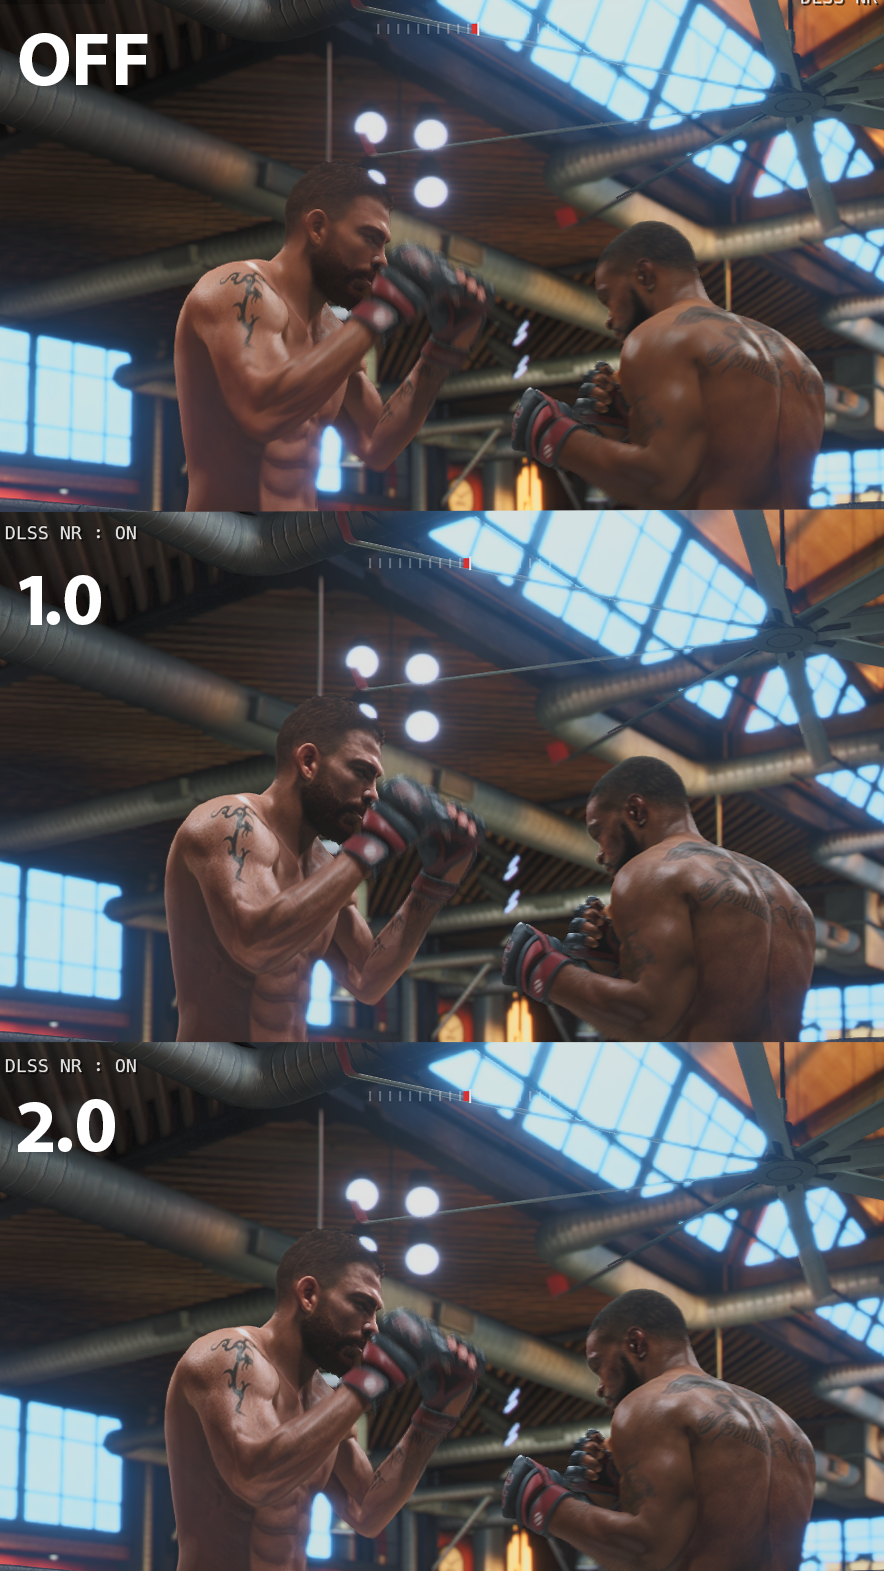
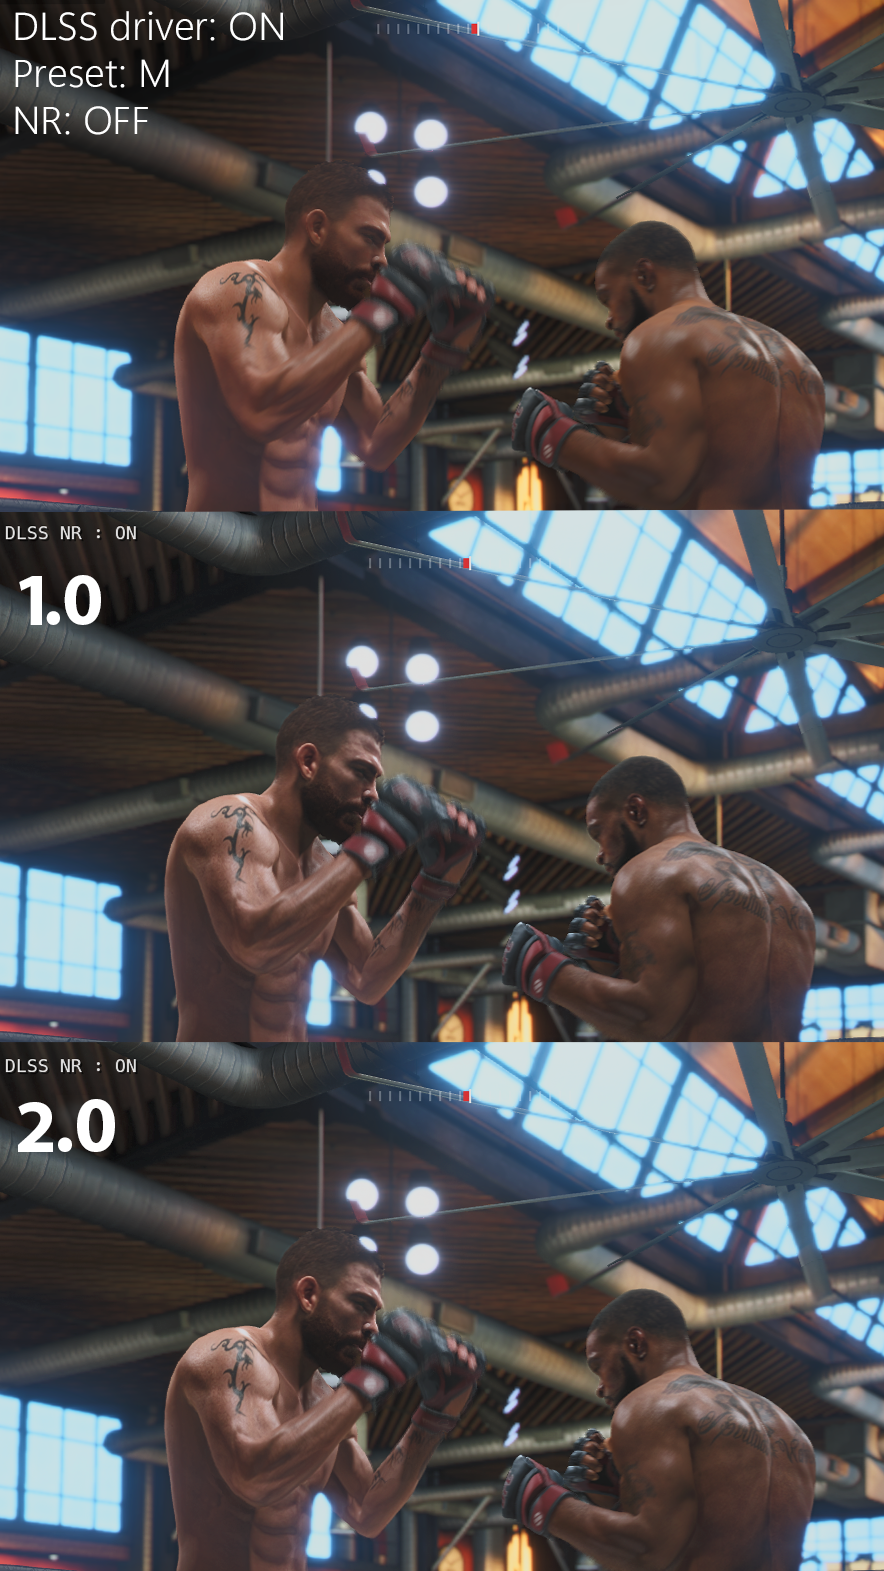
docs: add Compare_dlss5_detail_2x comparison, update dlss5_detail images, and clarify DLSS Segunda Geracao preset M and character model focus

Changed region(s): [[0.0, 0.0, 0.2443, 0.0936], [0.2749, 0.0, 0.336, 0.0312]]

diff --git a/README.md b/README.md
@@ -46,7 +46,7 @@ Instalação facilitada em botão único: selecione simultaneamente o Jogo Base 
 ![Extrator Nativo de PKG](assets/screenshots/ext_pkg_v2.png)
 
 #### 3. Motores de Reconstrução & Frame Generation (Aba `UPSCALE & FG`)
-Personalize os melhores filtros gráficos do mercado (FSR 1.0 a 4.1.1, XeSS 1.3 a 2.0, DLSS 3.5 e 4.5), ative a Geração de Quadros para até 240 FPS e controle a renderização neural com sincronização em tempo real (tecla `Insert` durante a luta).
+Personalize os melhores filtros gráficos do mercado (FSR 1.0 a 4.1.1, XeSS 1.3 a 2.0, DLSS Segunda Geração / Preset M, 3.5 e 4.5), ative a Geração de Quadros para até 240 FPS e controle a renderização neural com sincronização em tempo real (tecla `Insert` durante a luta).
 
 ![Aba de Upscale e Frame Generation](assets/screenshots/upscale_v2.png)
 
@@ -74,15 +74,27 @@ A versão V2 traz a tecnologia mais avançada de reconstrução sub-pixel via in
 > - **DLSS 5 com Textura 1.0x:** Reconstrução neural equilibrada com fidelidade nativa 1.0x, garantindo combate limpo e sem artefatos em movimentos rápidos.
 > - **DLSS 5 com Detalhes de Textura em 2.0x:** Ampliação da densidade de microtexturas anatômicas (suor, pele, luvas, lona e malha do octógono) elevada até 2.0x sob a mesma passada neural.
 
+> [!TIP]
+> **Foco do DLSS 5 & Recomendações de Desempenho e FPS:**  
+> - **Foco nos Personagens:** O DLSS 5 foi especialmente desenvolvido para aprimorar os aspectos visuais dos lutadores em si. O foco principal está na **pele, cabelo e barba**.  
+> - **Cenário e Vestimentas:** O fundo e o ambiente não são alterados, enquanto detalhes de texturas em roupas e luvas recebem aplicação leve para manter o combate ágil e responsivo.  
+> - **Ajuste em Tempo Real (`Insert`):** Todos esses parâmetros podem ser ajustados diretamente no menu do OptiScaler apertando a tecla `Insert` durante a luta.  
+> - ⚠ **Atenção ao Custo de Desempenho:** Lembre-se de que quanto mais você aumentar os detalhes (seja de roupas, seja do ambiente), mais pesado o jogo fica e menos FPS você terá. E quanto menos FPS você tiver, maior a chance de ocorrer efeito de arrasto (*ghosting*). Para a melhor experiência competitiva e máxima nitidez, mantenha os detalhes calibrados nos lutadores.
+
 #### 1. Visão Geral da Tecnologia (DLSS 5 Detail)
 Visão consolidada da reconstrução neural em passada única com análise comparativa de detalhes de textura:
 
 ![Visão Geral e Detalhes do DLSS 5](assets/screenshots/dlss5_detail.png)
 
-#### 2. Comparativo de Reconstrução: DLSS 2 vs Detalhes Aprimorados (2X)
-Demonstração da preservação de linhas, malha do octógono e nitidez entre os métodos:
+#### 2. Comparativo de Reconstrução: DLSS Segunda Geração (Preset M) vs Detalhes Aprimorados (2X)
+Demonstração comparativa entre o DLSS de Segunda Geração e os modos com detalhes refinados:
 
-![Comparativo DLSS 2 em 2X](assets/screenshots/Compare_dlss_detail_2x.png)
+![Comparativo DLSS Segunda Geração vs Detalhes Aprimorados](assets/screenshots/Compare_dlss_detail_2x.png)
+![Comparativo DLSS 5: 2x vs 1x Bem Ajustada](assets/screenshots/Compare_dlss5_detail_2x.png)
+
+**Análise dos Painéis Comparativos:**
+- **Painel Superior (`Compare_dlss_detail_2x.png`):** Confronto do DLSS Segunda Geração (Preset M) contra os detalhes ampliados em 2.0x, evidenciando o ganho de definição na malha do octógono e silhueta dos lutadores.
+- **Painel Inferior (`Compare_dlss5_detail_2x.png`):** Teste comparativo entre aplicar **duas passadas (imagem da esquerda)** versus aplicar **uma única passada bem ajustada (imagem da direita)**. O que muda fundamentalmente são os valores aplicados: a passada única com valores precisamente ajustados supera duas passadas, entregando mais estabilidade temporal, menos artefatos e muito mais desempenho.
 
 #### 3. DLSS 5 Neural Rendering (Textura Base 1.0x)
 Reconstrução neural em passada única com texturas em 1.0x — máxima estabilidade temporal e resposta limpa:
@@ -151,11 +163,11 @@ O FightPort 4 é escrito em C nativo com as APIs do Windows (Win32 e GDI+):
 
 ### Overview
 FightPort 4 V2 delivers an ultra-smooth, responsive PC experience for EA SPORTS UFC 4, running over a high-performance native **Vulkan** translation pipeline.
-Featuring integrated **OptiScaler v0.1.34-with-dlss-fg** (developed by **nitec** & community), it provides next-gen image upscaling (FSR, XeSS, DLSS), Frame Generation (from 120 FPS up to 6X MFG), neural rendering (DLSS 5), active latency mitigation, high-clarity 2.0 stereo audio, full controller support, and integrated one-click PKG extraction.
+Featuring integrated **OptiScaler v0.1.34-with-dlss-fg** (developed by **nitec** & community), it provides next-gen image upscaling (FSR, XeSS, DLSS), Frame Generation (up to 240+ FPS), neural rendering (DLSS 5), active latency mitigation, high-clarity 2.0 stereo audio, full controller support, and integrated one-click PKG extraction.
 
 ### Key Features
 - **Bidirectional In-Game & Launcher Sync:** Adjust graphics inside the launcher before playing or hit `Insert` during combat to tweak OptiScaler overlay settings in real time.
-- **Next-Gen Upscaling & Frame Gen:** Support for AMD FSR (1.0 to 4.1.1), Intel XeSS (1.3 & 2.0), NVIDIA DLSS (3.5 & 4.5), single-pass DLSS 5 neural rendering with 1.0x to 2.0x texture detail enhancement (no multi-pass or doubled Frame Gen), and Frame Generation up to 240+ Hz.
+- **Next-Gen Upscaling & Frame Gen:** Support for AMD FSR (1.0 to 4.1.1), Intel XeSS (1.3 & 2.0), NVIDIA DLSS (2nd Gen Preset M, 3.5 & 4.5), single-pass DLSS 5 character-focused neural rendering (skin, hair, beard) with 1.0x to 2.0x texture detail tuning via in-game `Insert` menu, and Frame Generation up to 240+ Hz.
 - **One-Click PKG Installer:** Automated extraction and patch-merging from the `EXTRAÇÃO DE PKG` tab.
 - **Audio Overhaul:** Clean downmixing of 7.1 surround sound into crisp 2-channel stereo with volume amplification up to 300%.
 - **Portable & Setup Options:** Distributed both as a portable `.zip` and an automated `.exe` installer.
